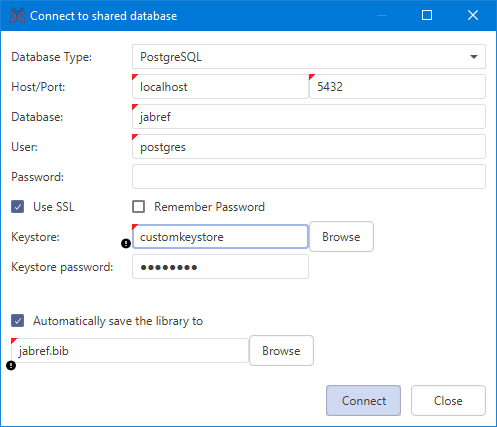
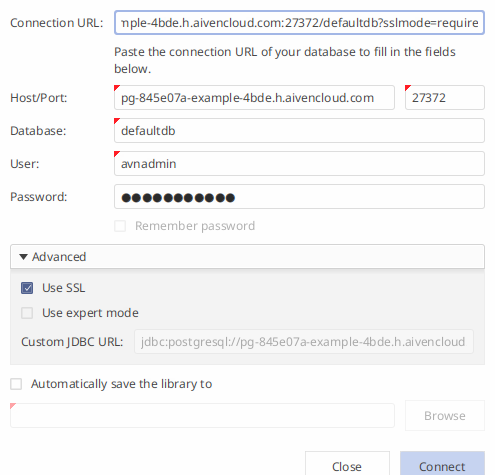
Update shared SQL database page for PostgreSQL-only live sync (#668)
* Update shared SQL database page: PostgreSQL only, live sync, automatic migration

* SSL section: certificates come from JabRef preferences, keystore removed

* Use SSL encrypts without server authentication (psql parity)

* Describe the deletion notification replacing the dialog

Claude-Session: https://claude.ai/code/session_01WyZEicma9suBn7QJxAiZS1

* Remove screenshot of the removed deleted-entry dialog

Claude-Session: https://claude.ai/code/session_01WyZEicma9suBn7QJxAiZS1

* Describe pasting a connection URL in the shared database dialog (#670)

---------

diff --git a/en/collaborative-work/sqldatabase/README.md b/en/collaborative-work/sqldatabase/README.md
@@ -4,13 +4,19 @@ description: JabRef is able to support collaborative work using a shared SQL dat
 
 # Shared SQL Database
 
+JabRef uses [PostgreSQL](https://www.postgresql.org/) as the database system for shared databases. Support for MySQL/MariaDB and Oracle was removed due to high maintenance effort.
+
 ## Usage
 
-To use this feature you have to connect to a remote database. To do so you have to open **File** in the menu bar and then click the **Connect to shared database** item. The **Connect to shared database** dialog will open and you will have to fill in the shared's database connection settings. Then, you have to fill out the remaining fields with the according information. If you like you can save your password by clicking the **Remember password?** checkbox.
+To use this feature you have to connect to a remote database. To do so you have to open **File** in the menu bar and then click **Shared database** and **Connect to shared database**. The **Connect to shared database** dialog will open. The quickest way to fill it in is to paste the connection URL of your database (as shown by your hosting provider, e.g. `postgres://user:password@host:5432/database?sslmode=require`, a JDBC URL, the keyword form `host=… port=… dbname=… user=… password=…`, or even the whole `psql 'postgres://…'` command line) into the **Connection URL** field: host, port, database, user, and password are filled in automatically. Alternatively, enter these details by hand. If you like you can save your password by ticking the **Remember password** checkbox; it is then kept in your operating system's credential store (keychain). The checkbox is unavailable if no credential store can be reached.
+
+Settings that are rarely needed (SSL and a custom JDBC URL for the *expert mode*) are found in the collapsible **Advanced** section. When a pasted URL contains parameters JabRef has no dedicated field for (such as `sslmode=require`), expert mode is switched on and the parameters are kept in the custom JDBC URL, so the connection is made exactly as the URL says.
+
+If the database was already used by an older version of JabRef, its content is migrated to the new table structure automatically when the first client connects. The old tables are kept untouched, so older JabRef versions can still be used with them.
 
 ### SSL configuration
 
-Since version 5.0 JabRef supports secure SSL connection to the database. For PostgreSQL make sure the server supports SSL and you have correctly setup the [certificates](https://www.postgresql.org/docs/current/static/ssl-tcp.html). Then [convert the client certificates](https://jdbc.postgresql.org/documentation/ssl/#configuring-the-client) into a java readable format and import them into a (custom) keystore. For MySQL the procedure is similar. [Setting up MySQL with SSL](https://dev.mysql.com/doc/refman/8.0/en/using-encrypted-connections.html) and converting the certificates for the java keystore. However, it has only been tested with PostgreSQL. Once the certificates are imported into the keystore, specify the path to the keystore file in the connection dialog and the password for accessing the keystore.
+Tick **Use SSL** in the **Advanced** section to require an encrypted connection. Like `psql`, this does not verify the server's certificate, so managed PostgreSQL providers with their own certificate authorities work out of the box; a pasted URL with `sslmode=require` ticks the box for you. If you want the server certificate verified, use the expert mode with a JDBC URL such as `jdbc:postgresql://host:5432/database?sslmode=verify-full&sslrootcert=/path/to/ca.pem`; a pasted URL with `sslmode=verify-full` sets this up automatically.
 
 ![Screenshot of Connect to shared database dialog](../../.gitbook/assets/open-shared-database-dialog.png)
 
@@ -18,13 +24,11 @@ After connecting to your shared database, your main window should look like this
 
 ![Screenshot of JabRef with an open shared database](../../.gitbook/assets/open-shared-databse-screenshot.png)
 
-JabRef will automatically detect your changes and push them to the shared side. JabRef will also constantly check if there is a newer version available. If you experience connection issues, you can pull changes from your shared database via the icon in the icon bar. If a newer version is available, JabRef will try to automatically merge the new version and your local copy. If this fails, the **Update refused** dialog will show up. You will then have to manually merge using the **Update refused** dialog. The dialog helps you by pointing out the differences, you then will have to choose if you want to keep your local version or update to the shared version. Confirm your merge by clicking on **Merge entries**.
+JabRef will automatically detect your changes and push them to the shared side. Changes made by other users arrive automatically as well: JabRef listens for change notifications from the database, so edits, new groups, and changed library settings show up in all connected JabRef instances without any manual action. If a newer version is available, JabRef will try to automatically merge the new version and your local copy. If this fails, the **Update refused** dialog will show up. You will then have to manually merge using the **Update refused** dialog. The dialog helps you by pointing out the differences, you then will have to choose if you want to keep your local version or update to the shared version. Confirm your merge by clicking on **Merge entries**.
 
 ![Screenshot of Update refused dialog](../../.gitbook/assets/update-refused-merge-dialog.png)
 
-The **Update refused** dialog can also take a different form, if the BibEntry you currently work on has been deleted on the shared side. You can choose to keep the BibEntry in the database by clicking **Keep** or update to the shared side and click **Close**.
-
-![Screenshot of Update refused dialog due to a deleted entry](../../.gitbook/assets/update-refused-deleted-entry-dialog.png)
+If somebody else deletes entries, they disappear from your library as well and a notification tells you how many were deleted on the shared side. If you were still working on one of them, use **Undo** to get it back: it is inserted into the shared database again.
 
 If you experience a problem with your connection to your shared database, the **Connection lost** dialog will show up. You can choose to **Reconnect**, **Work offline** or **Close database**. Most of the time simply reconnecting will fix this problem, if that's not the case you will have to choose between **Work offline** or **Close database**. Pick **Work offline** if you want to make sure your changes are saved. If you think there is nothing to save just pick **Close database**. If you choose to work offline, JabRef will convert the shared database to a local .bib database. Since you are no longer working online, but instead on a local database, you will have to import your work via copy and paste into the shared database. However before you import it into the shared database, make sure to check if changes happened during your offline time. Otherwise you might override someone else's work.
 
